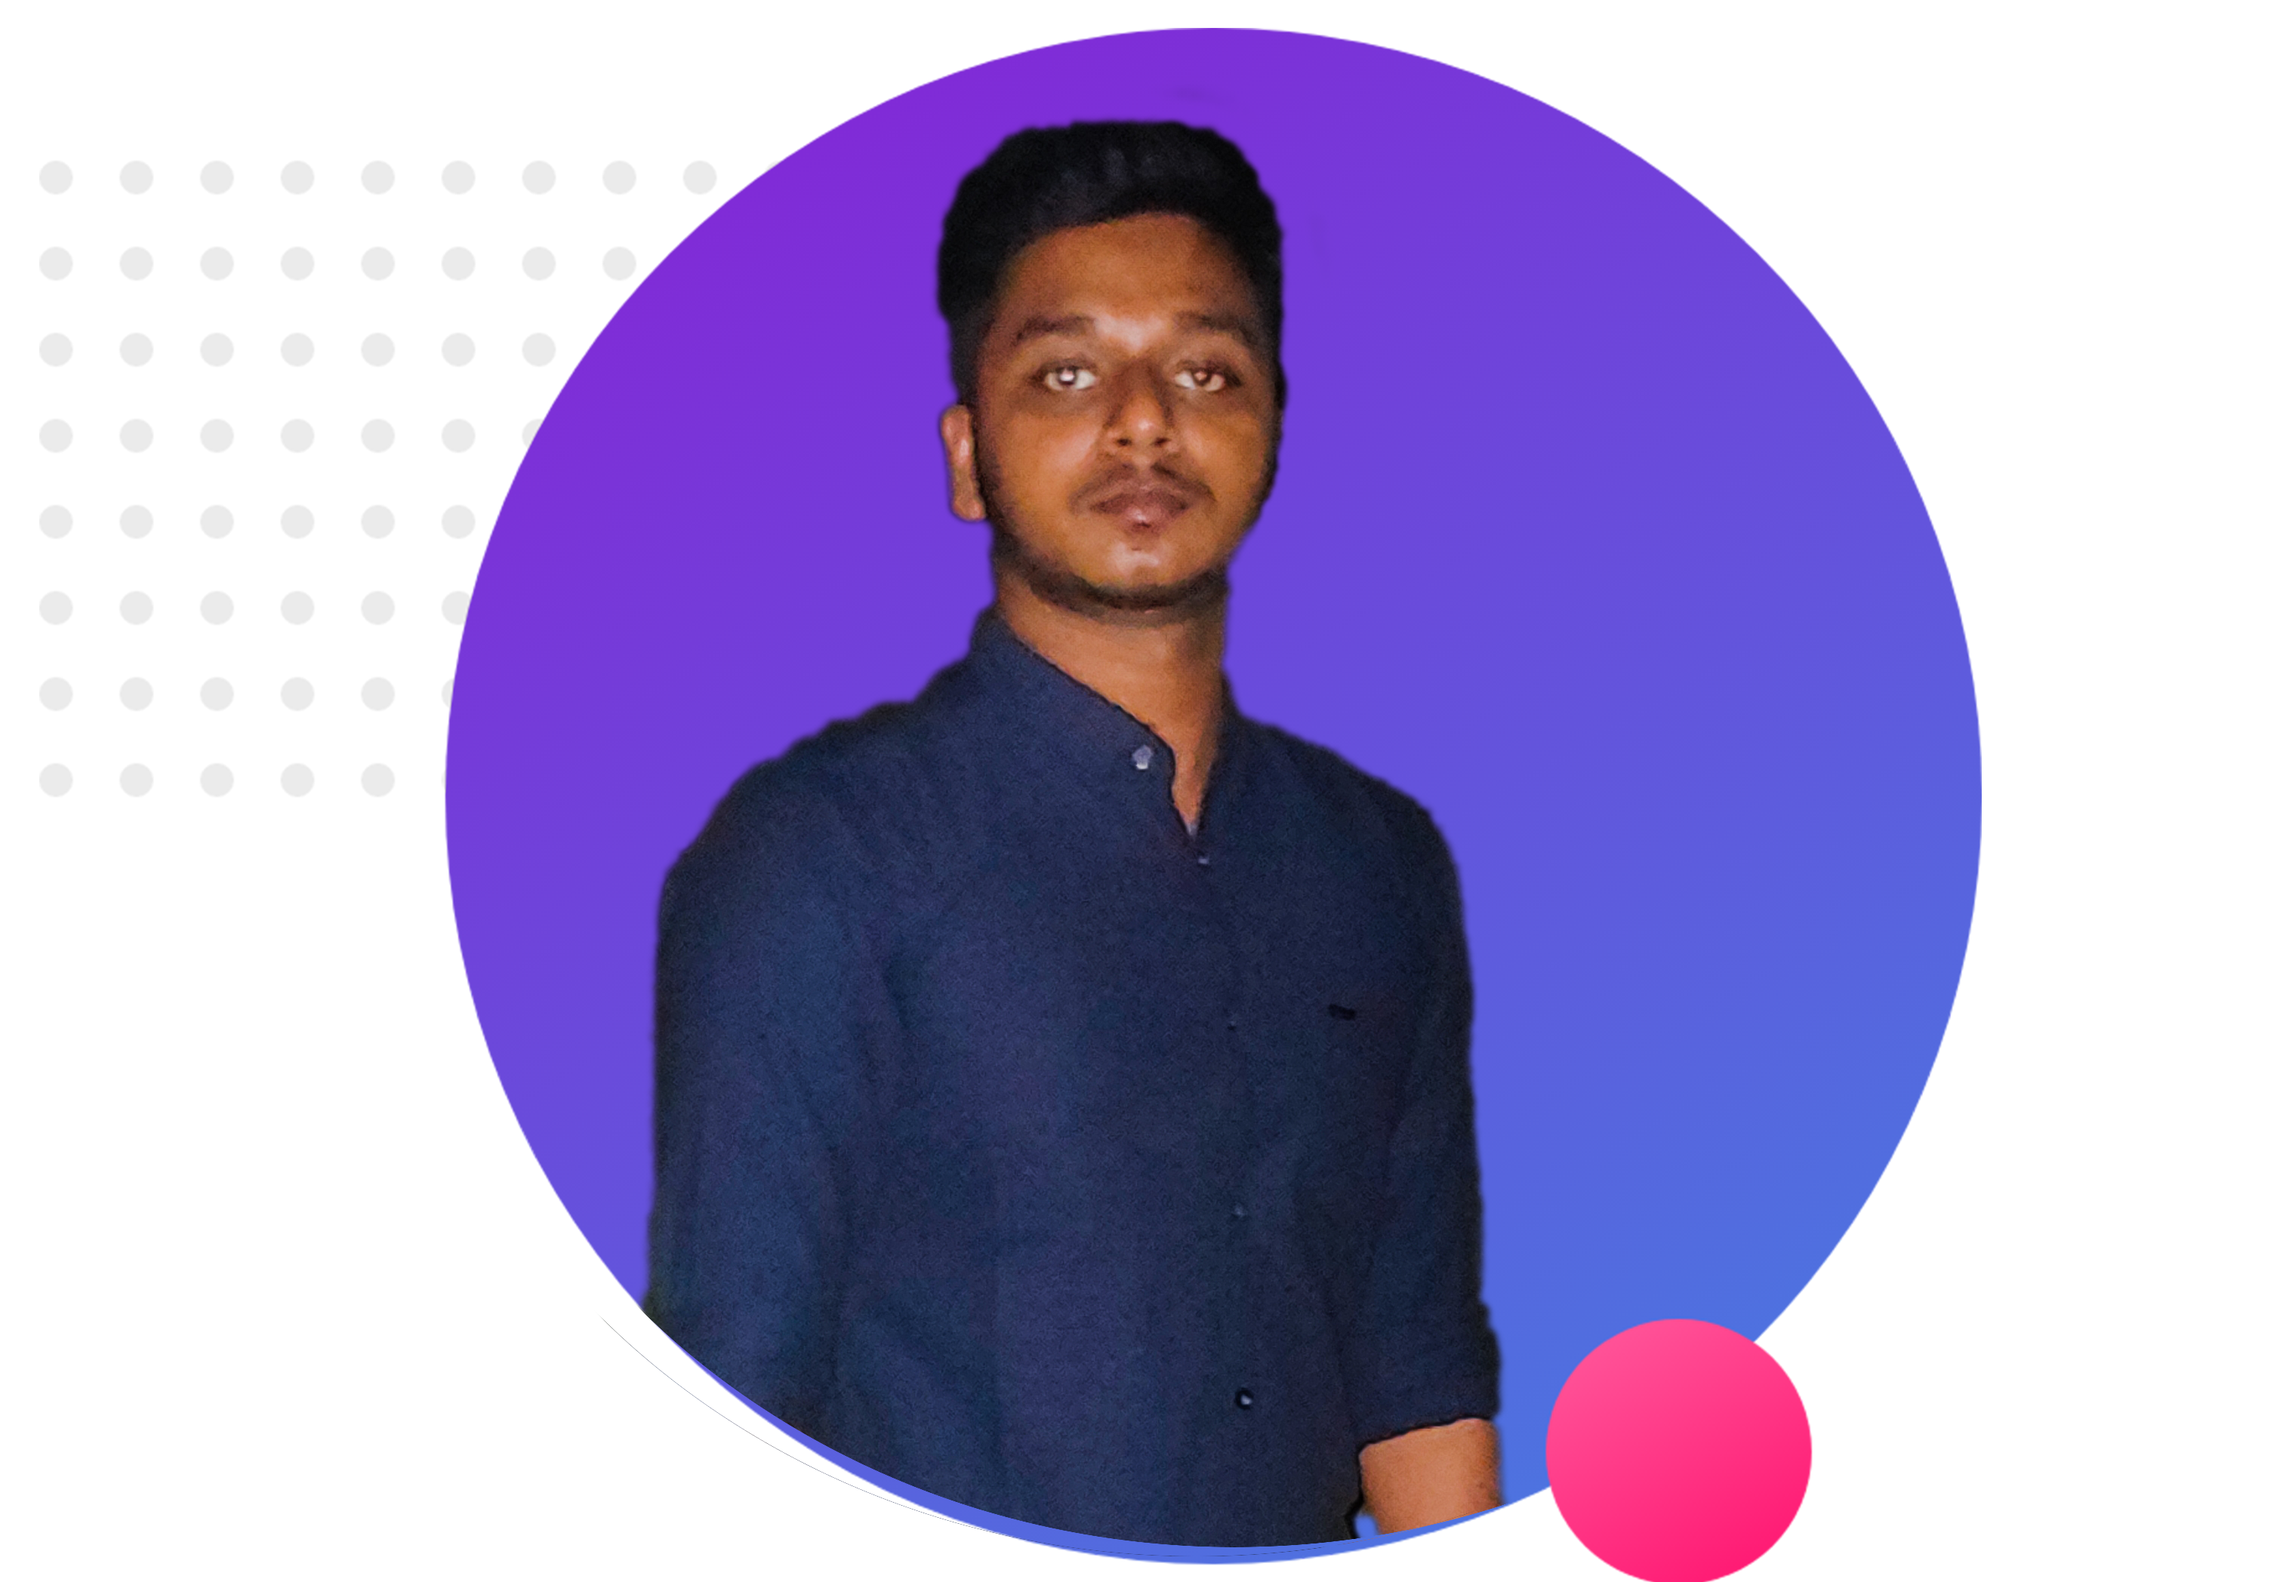
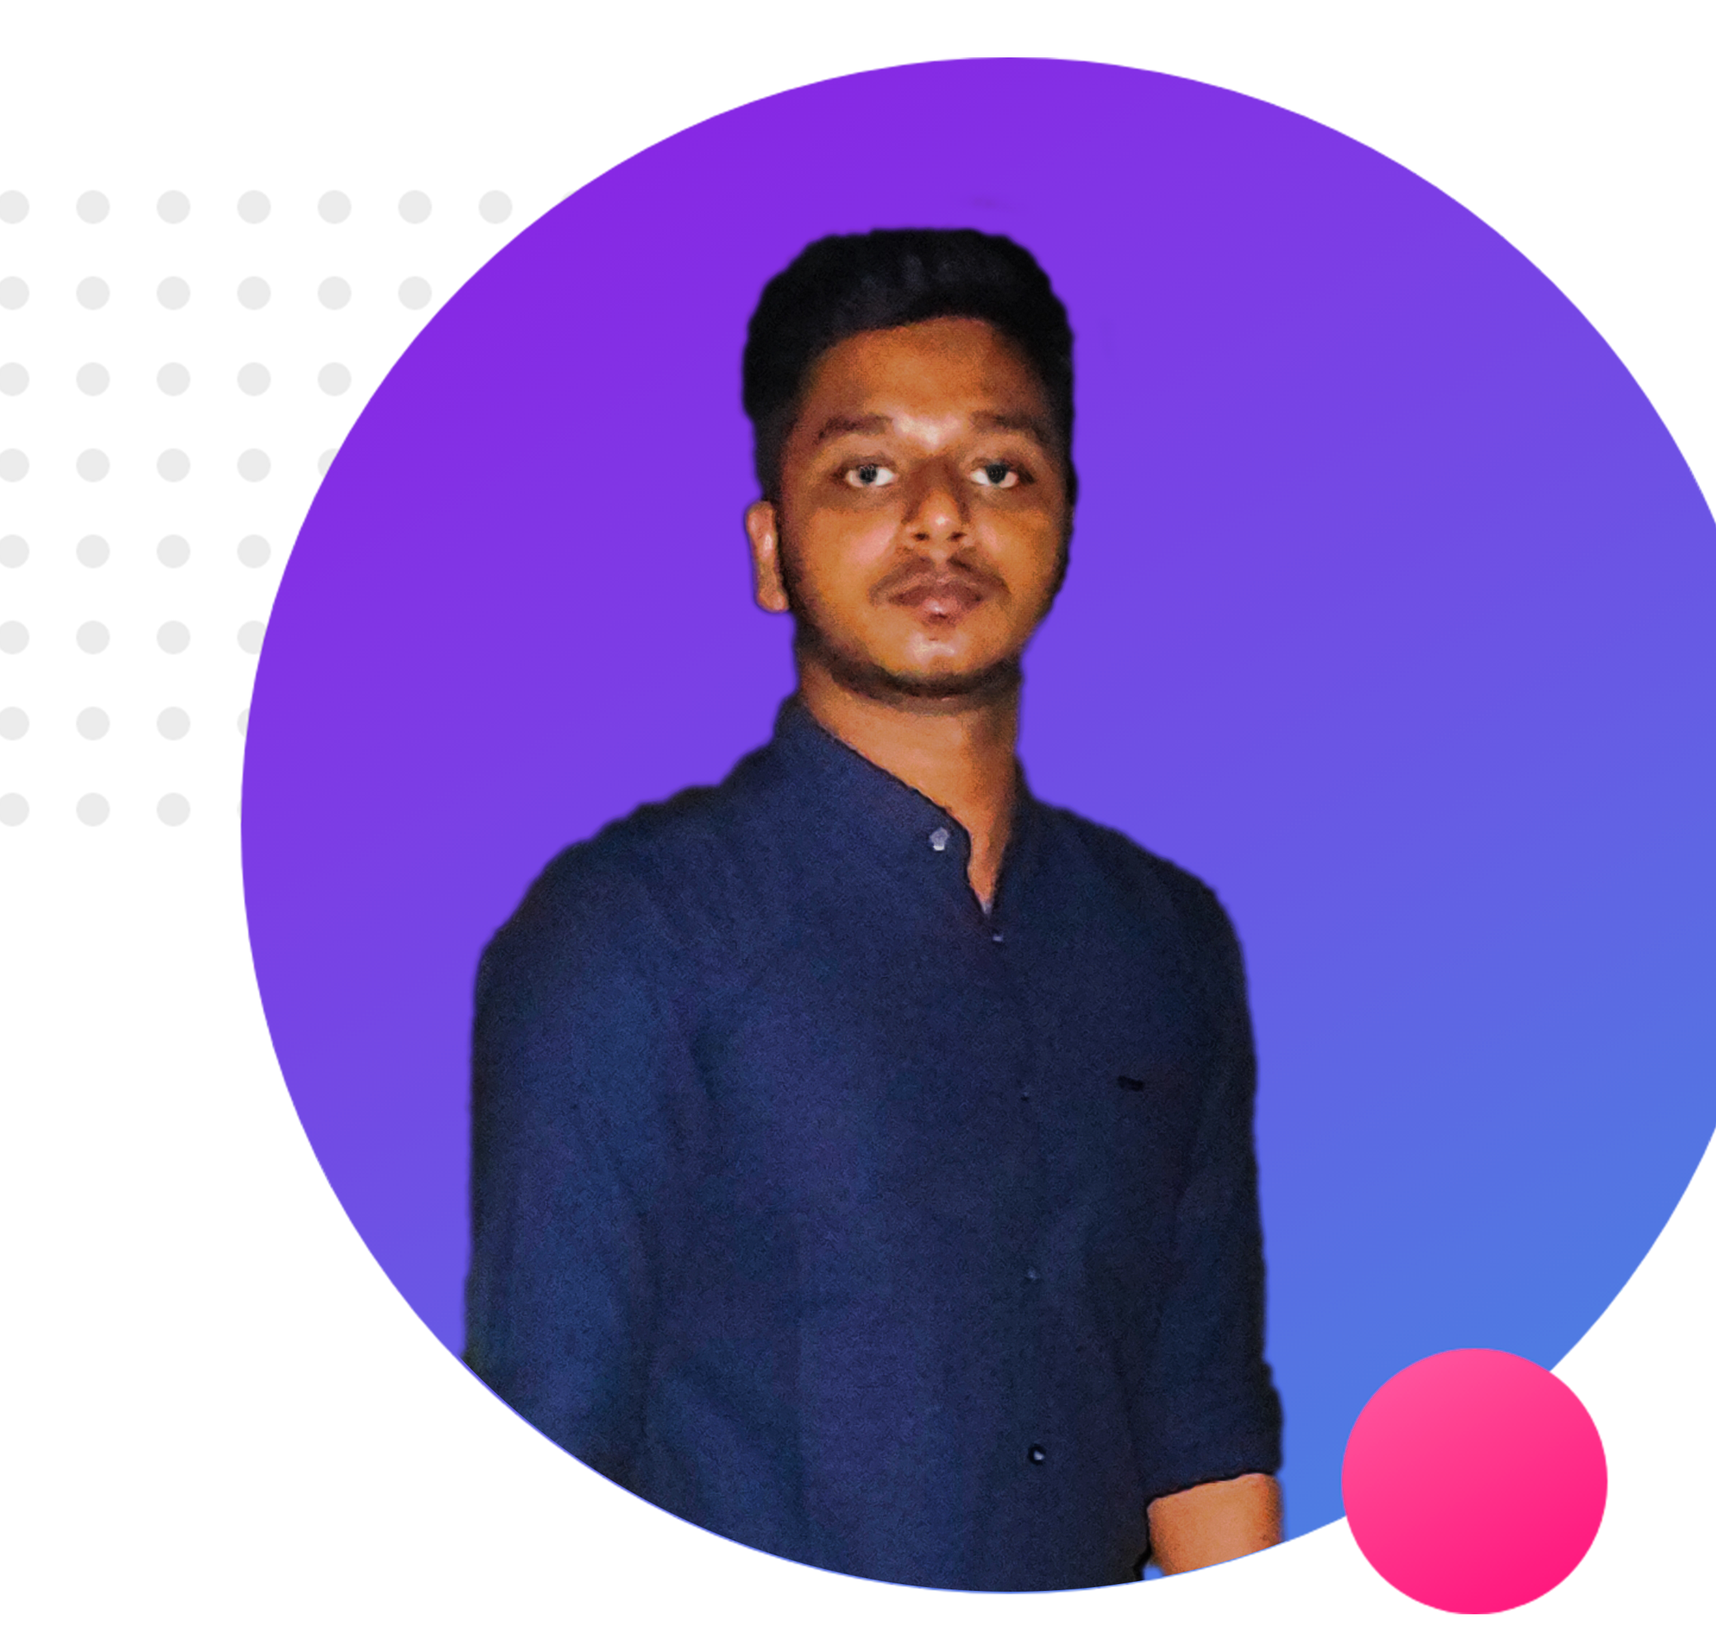
top section added

diff --git a/index.html b/index.html
@@ -1,0 +1,31 @@
+<!DOCTYPE html>
+<html lang="en">
+
+<head>
+    <meta charset="UTF-8">
+    <meta name="viewport" content="width=device-width, initial-scale=1.0">
+    <title>Inzamam Web Develeper</title>
+    <link rel="preconnect" href="https://fonts.gstatic.com">
+    <link href="https://fonts.googleapis.com/css2?family=Nunito:ital,wght@0,200;0,300;0,400;0,600;0,700;0,800;0,900;1,200;1,300;1,400;1,600;1,700;1,800&display=swap" rel="stylesheet">
+    <link rel="stylesheet" href="style.css">
+</head>
+
+<body>
+    <section>
+       <div class="half-width">
+        <h1>Welcome To</h1>
+        <h1> <span class="text-highlight">Inzamam's</span> Portfolio</h1>
+        <h3>Profesional Web Developer</h3>
+        <p>
+            You might saw me jumping, climbing buildings, and stopping trains. But nobody pays me a dime for that work.
+            That's why I am learning and mastering web development. I will not stop until I become the Web Development Hero.
+        </p>
+       </div>
+       <div class="half-width">
+            <img src="images/profile2.png" alt="">
+       </div>
+        
+    </section>
+</body>
+
+</html>

diff --git a/style.css b/style.css
@@ -1,0 +1,22 @@
+body{
+    font-family: 'Nunito', sans-serif;
+}
+
+h1{
+    font-size: 50px;
+}
+section{
+    height: 500px;
+}
+.text-highlight{
+    color: orange;
+}
+.half-width{
+    width: 40%;
+    float: left;
+    margin-left: 5%;
+    padding: 2%;
+}
+.half-width img{
+    width: 100%;
+}
